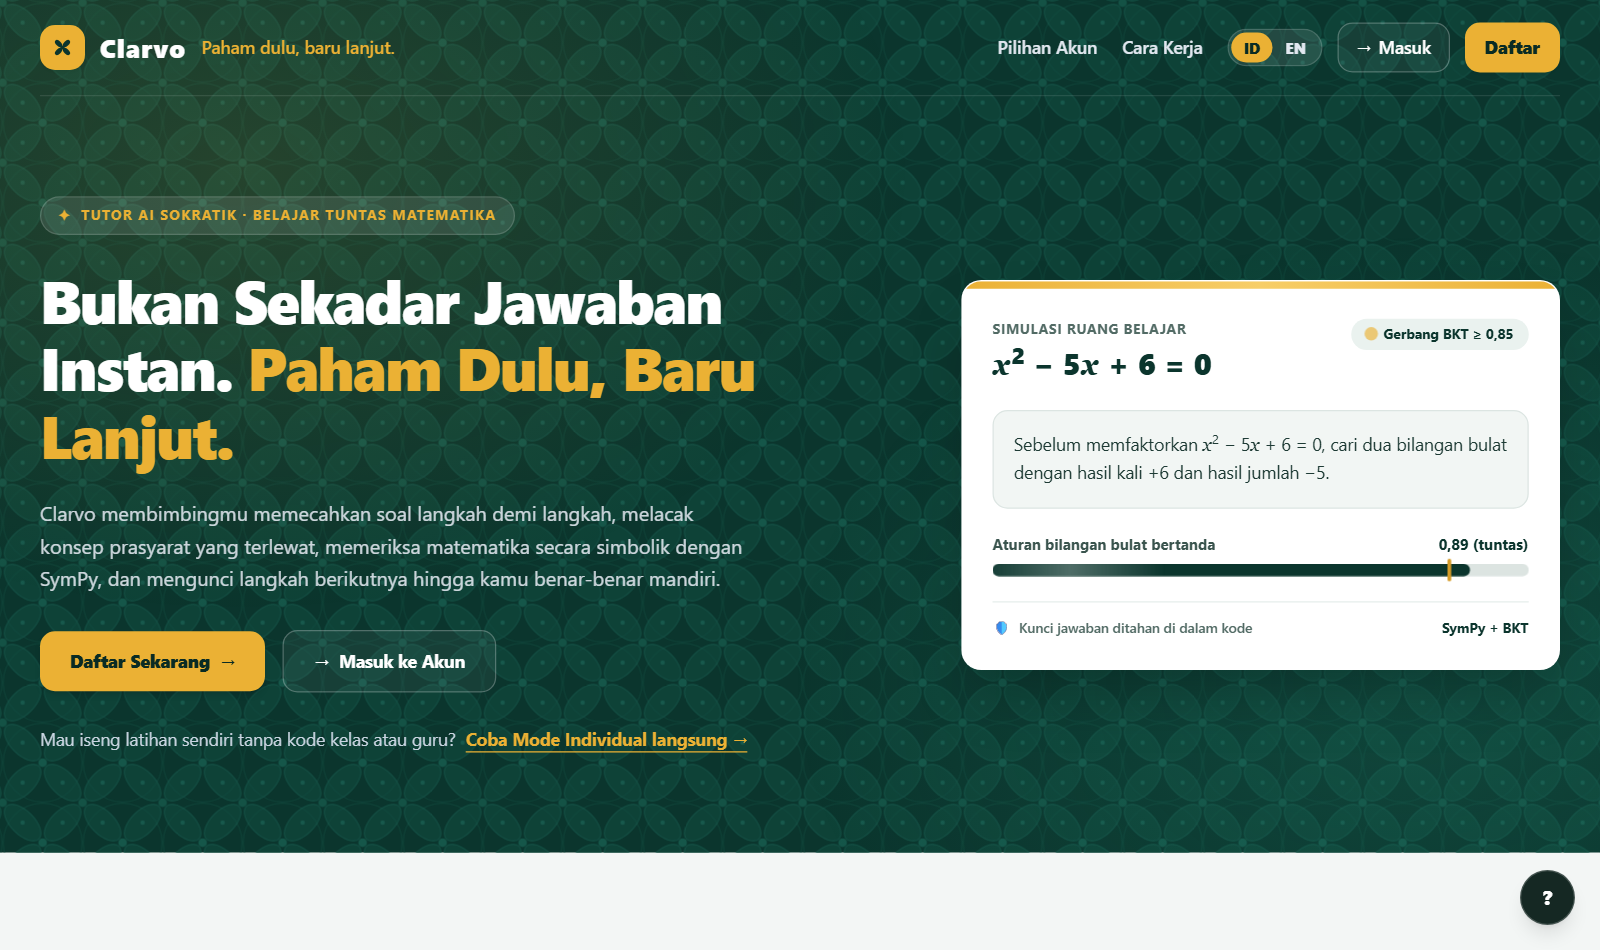
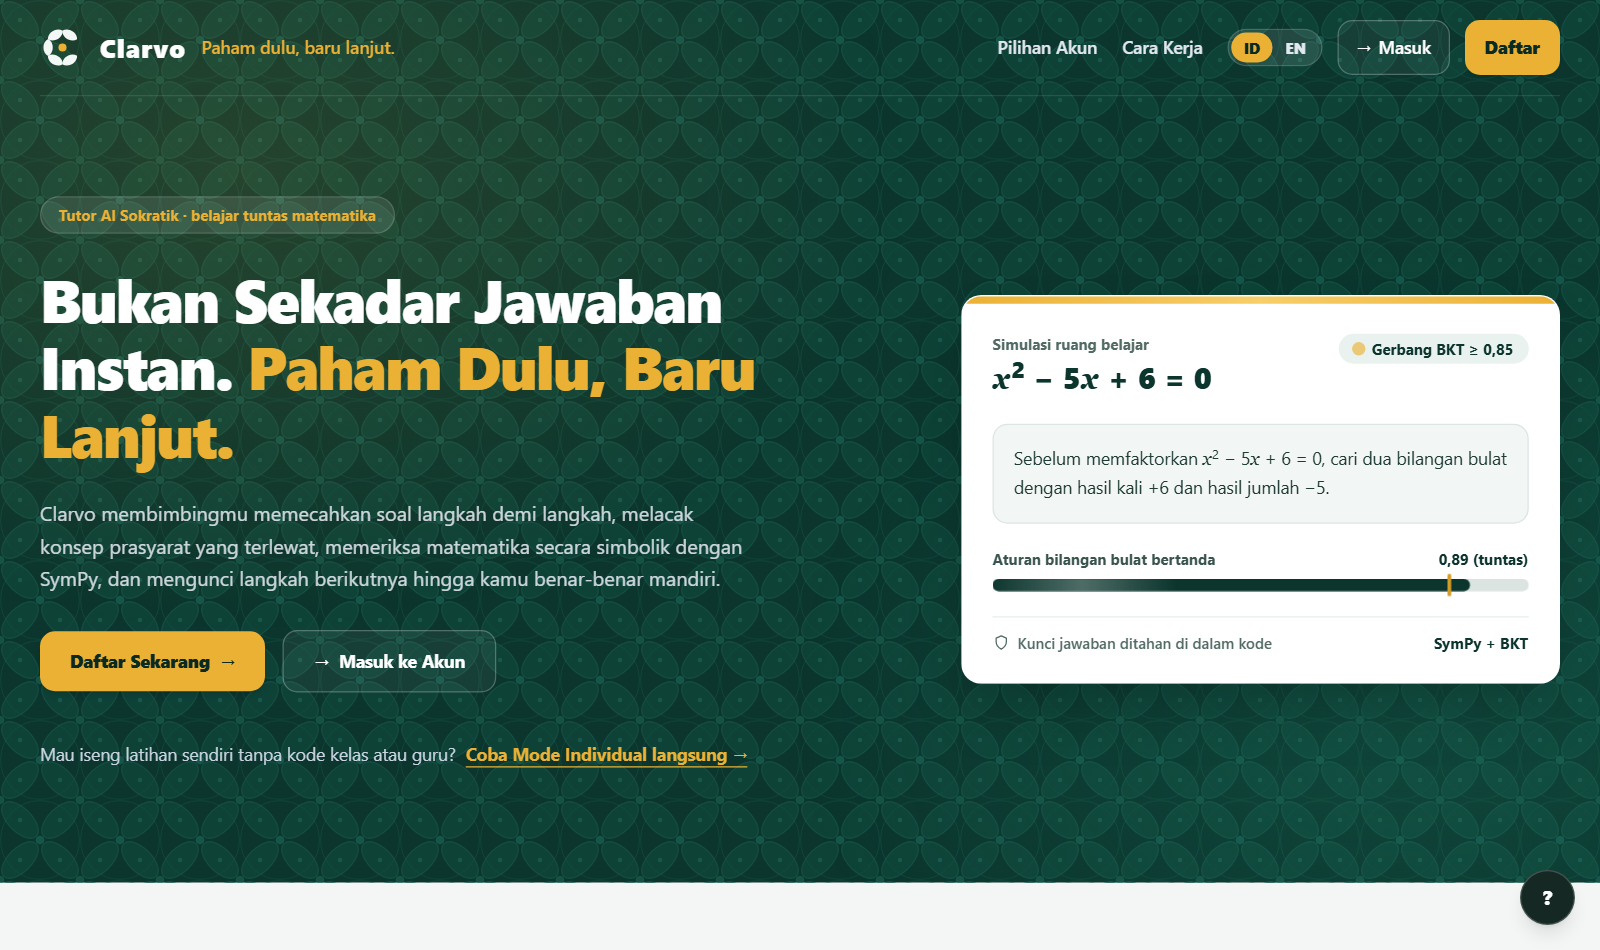
Update screenshots and note the re-check and demo guide

diff --git a/README.md b/README.md
@@ -61,6 +61,7 @@ A learner enters a problem, or picks an example, and works through it step by st
 - **Adaptive theory.** Before each step the tutor gives a short explanation at one of three levels (simple, standard, advanced), chosen from the learner's mastery, recent mistakes and hint use.
 - **Hints, never answers.** The learner can ask for a hint at any step. The tutor never shows the final answer.
 - **Review before retrying.** A wrong answer at step 1, or three wrong answers at a gate, leads to a short review and then new numbers. After three wrong answers the teacher dashboard flags the learner.
+- **Re-check in a later session.** When a prerequisite was mastered more than 24 hours ago (`TUNTAS_RECHECK_AFTER_HOURS`), the next session opens with one gate question on new numbers instead of skipping ahead.
 - **Three ways in.** Students join with a class code and a learner code (optionally a PIN). Teachers sign in with email and password. Individual learners sign in or continue as a guest; their sessions are private.
 - **Teacher dashboard.** One row per learner in non-private classes: current step, weakest concept, hints per step, and a "needs help" flag, with filters and search. It refreshes every 15 seconds.
 
@@ -153,6 +154,8 @@ php artisan serve
 ```
 
 Then open http://127.0.0.1:8000/ and sign in, or continue as a guest.
+
+For a presentation, follow [docs/DEMO.md](docs/DEMO.md) (in Indonesian). It covers `php artisan clarvo:demo-reset`, `php artisan clarvo:check`, `scripts/start-demo.ps1`, the demo flow, and testing on a real phone.
 
 ## Tests
 
